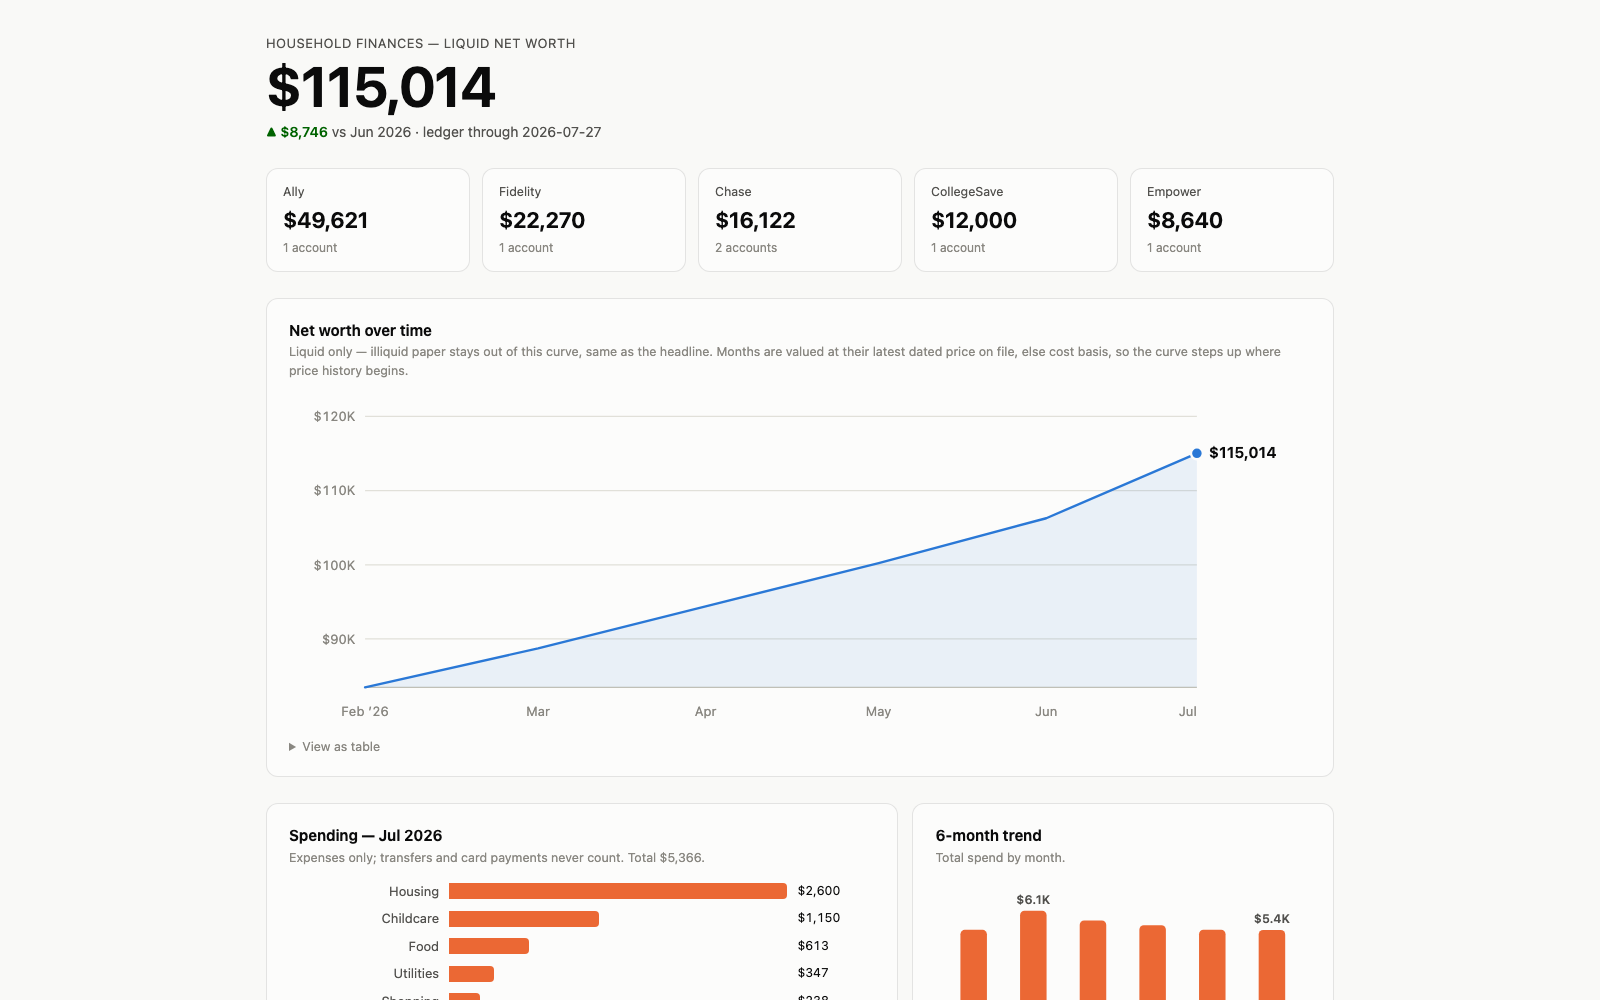
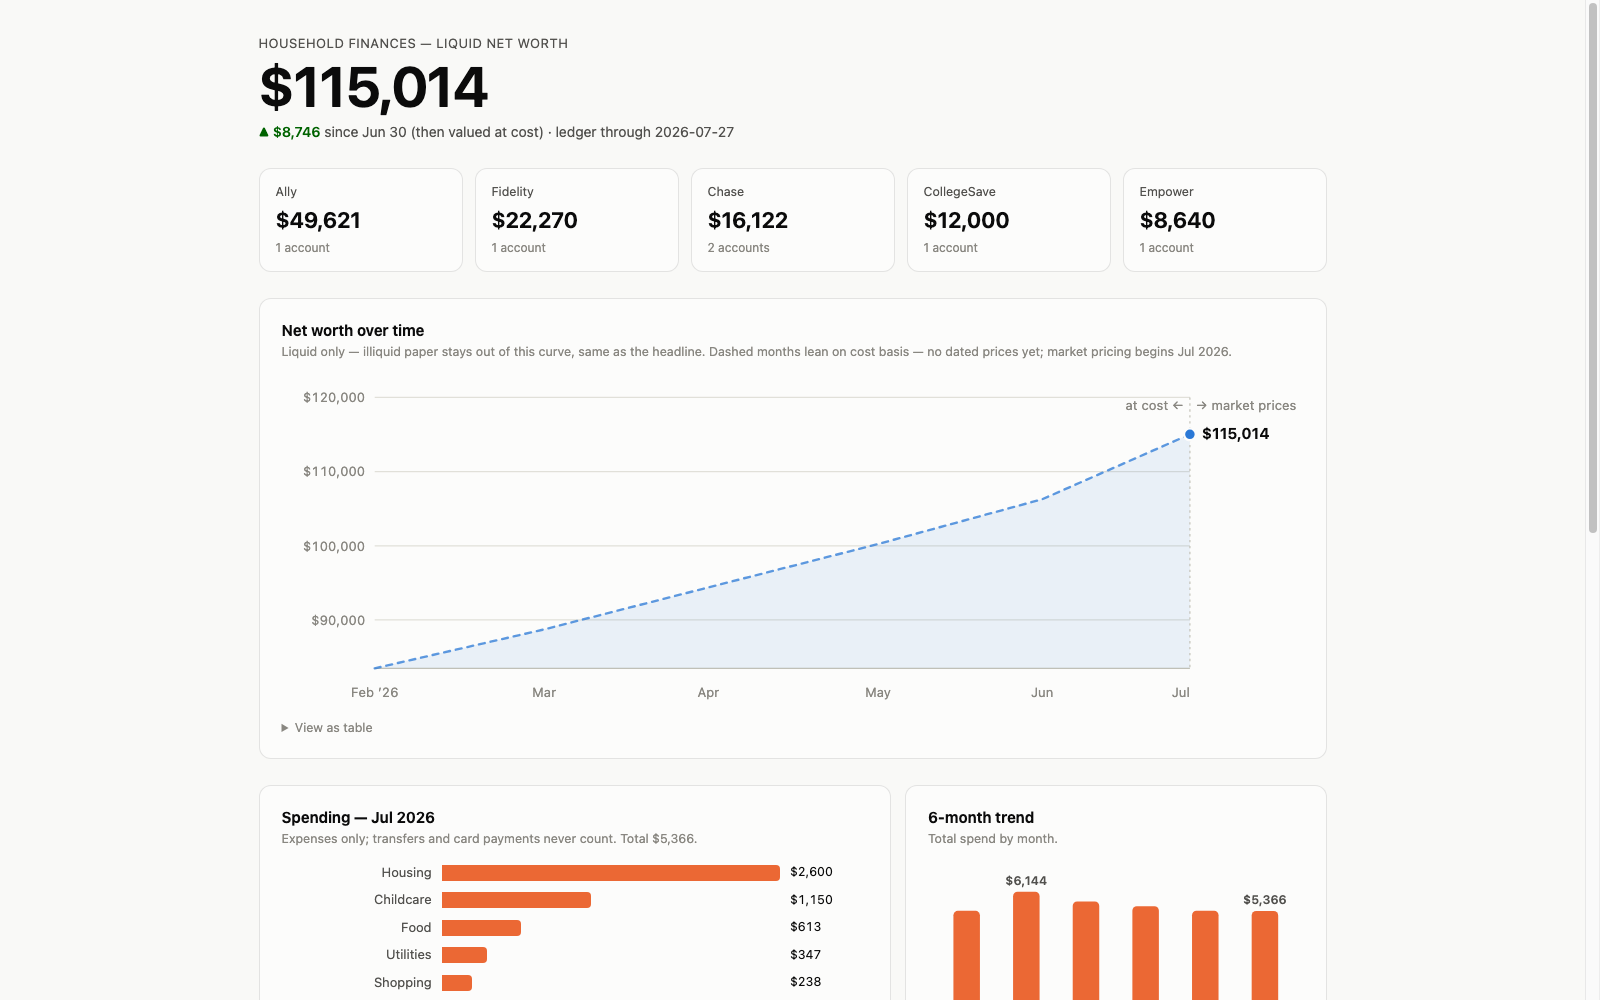
Dashboard figures verified to ground truth; honest curve; human formatting
The net-worth curve drops months before opening-balance completeness and
dashes at-cost history behind a labeled seam; every spend figure carries
its window ("month to date"); all code-rendered dollars use full comma
formatting; demo init orders checks before reports so findings render;
fava opens with a one-year default window so all-time sums stop reading
as period figures. Every displayed figure on demo and real pages matched
against the query engine exactly.

diff --git a/skills/finance/tools/webview.py b/skills/finance/tools/webview.py
@@ -13,7 +13,11 @@ Data surfaces reused, never re-derived: reports.liquid_balances/paper_value
 reports/findings.md (checks). History curve: month-end valuation at the
 latest dated price on or before each month end, else cost basis — the
 endpoint is the headline number itself (latest prices), so hero and curve
-always agree.
+always agree. Honesty rules for the curve: months that predate the ledger's
+opening balances are dropped (they'd misstate the household — accounts with
+no baseline yet read as missing money, not history), and months whose value
+leans on cost basis for lack of a dated price are drawn dashed and labelled
+"at cost". A partial current month is labelled with its through-date.
 
 Security: ledger payees, findings text, and account names are bank-
 controlled DATA. Every string is HTML-escaped before it touches markup;
@@ -52,20 +56,6 @@ def jattr(obj):
     """JSON for a data-* attribute — html.escape makes it inert in markup;
     the browser's attribute parser hands JSON.parse the exact original."""
     return esc(json.dumps(obj, separators=(",", ":")))
-
-
-def compact(v):
-    """$1.2M / $115K / $950 — axis-tick money."""
-    a = abs(v)
-    if a >= 1e6:
-        s = f"${a / 1e6:.1f}M".replace(".0M", "M")
-    elif a >= 1e4:
-        s = f"${a / 1e3:.0f}K"
-    elif a >= 1e3:
-        s = f"${a / 1e3:.1f}K".replace(".0K", "K")
-    else:
-        s = f"${a:,.0f}"
-    return "-" + s if v < 0 else s
 
 
 def month_label(y, m):
@@ -127,11 +117,42 @@ def _units(cell, currency):
     return total
 
 
+COST_SHARE_EST = 0.10      # >10% of a month's value on cost fallback = "at cost"
+BASELINE_SHARE = 0.95      # curve starts once 95% of opening-balance dollars exist
+
+
+def baseline_complete_date():
+    """The date by which ≥95% (dollar-weighted) of opening-balance value had
+    been booked, or None if the ledger has no Equity:Opening postings. Before
+    this date at least one account is missing its baseline, so a month-end
+    total there is missing money — not history."""
+    rows = query("SELECT date, sum(convert(position, 'USD')) AS v "
+                 "WHERE account ~ '^Equity:Opening' GROUP BY date ORDER BY date")
+    dated = []
+    for r in rows:
+        try:
+            dated.append((date.fromisoformat(r["date"]), abs(amount(r["v"]))))
+        except (KeyError, TypeError, ValueError):
+            continue
+    total = sum(v for _, v in dated)
+    if not total:
+        return None
+    run = 0.0
+    for d, v in dated:
+        run += v
+        if run >= BASELINE_SHARE * total:
+            return d
+    return dated[-1][0]
+
+
 def networth_series(liquid_now, asof):
-    """[(date, value)…] month-end liquid net worth. One ledger query: monthly
+    """[{d, v, est}…] month-end liquid net worth. One ledger query: monthly
     deltas per currency in units + cost; valued at the latest dated price on
-    or before each month end, else cost basis. The final point IS liquid_now
-    (the headline, at latest prices) so hero and curve can never disagree."""
+    or before each month end, else cost basis. est=True marks a month leaning
+    on cost fallback for >10% of its value (drawn dashed, labelled at cost).
+    Months before the opening-balance baseline are dropped. The final point
+    IS liquid_now (the headline, at latest prices) so hero and curve can
+    never disagree."""
     excl = illiquid_currency_regex()
     where = ("account ~ '^(Assets|Liabilities)'"
              + (f" AND NOT currency ~ '{excl.replace(chr(39), chr(39) * 2)}'" if excl else ""))
@@ -151,28 +172,39 @@ def networth_series(liquid_now, asof):
         per_month[ym][cur] = [u + d_units, c + d_cost]
     months = sorted(per_month)
     if not months:
-        return []
+        return [], 0
     prices = price_history()
     cum = {}  # currency -> [units, cost]
     points = []
-    for i, (y, m) in enumerate(months):
+    for y, m in months:
         for cur, (du, dc) in per_month[(y, m)].items():
             u, c = cum.setdefault(cur, [0.0, 0.0])
             cum[cur] = [u + du, c + dc]
         d = date(y, m, monthrange(y, m)[1])
-        total = 0.0
+        total, at_cost = 0.0, 0.0
         for cur, (u, c) in cum.items():
             if cur == "USD":
                 total += u
             elif abs(u) > 1e-9:
                 px = [p for pd, p in prices.get(cur, []) if pd <= d]
                 total += u * px[-1] if px else c
-        points.append((d, round(total, 2)))
+                if not px:
+                    at_cost += abs(c)
+        points.append({"d": d, "v": round(total, 2),
+                       "est": at_cost > COST_SHARE_EST * max(abs(total), 1.0)})
     # the last month is partial (data reaches asof, not month end): date it
-    # honestly and pin it to the headline valuation
-    end_date = asof or points[-1][0]
-    points[-1] = (min(points[-1][0], end_date) if asof else points[-1][0], liquid_now)
-    return points[-MAX_CURVE_POINTS:]
+    # honestly and pin it to the headline valuation — the headline is the
+    # latest-prices number by definition, never a cost estimate
+    if asof:
+        points[-1]["d"] = min(points[-1]["d"], asof)
+    points[-1]["v"] = liquid_now
+    points[-1]["est"] = False
+    baseline = baseline_complete_date()
+    cut = 0
+    if baseline:
+        kept = [p for p in points if p["d"] >= baseline]
+        cut, points = len(points) - len(kept), kept
+    return points[-MAX_CURVE_POINTS:], cut
 
 
 def spend_data():
@@ -265,16 +297,18 @@ def code_spans(escaped):
     return re.sub(r"`([^`]{1,80})`", r"<code>\1</code>", escaped)
 
 
-def svg_line_chart(points):
+def svg_line_chart(points, asof=None):
     """Net-worth curve: 2px line, 10% area wash, end dot + ring, direct end
-    label, hairline grid, crosshair+tooltip layer driven by data-points."""
+    label, hairline grid, crosshair+tooltip layer driven by data-points.
+    Months flagged est (mostly cost basis, no dated price yet) draw dashed
+    with an annotated seam where market pricing begins."""
     if len(points) < 2:
         return ("<div class='empty'>Not enough ledger history to draw a curve yet "
                 "&mdash; import more statements and regenerate.</div>")
     W, H = 860, 280
-    ML, MR, MT, MB = 64, 96, 18, 34
-    xs = [d.toordinal() for d, _ in points]
-    vs = [v for _, v in points]
+    ML, MR, MT, MB = 78, 96, 18, 34
+    xs = [p["d"].toordinal() for p in points]
+    vs = [p["v"] for p in points]
     ticks = nice_ticks(min(vs), max(vs))
     lo, hi = min(ticks[0], min(vs)), max(ticks[-1], max(vs))
     span_x = (xs[-1] - xs[0]) or 1
@@ -290,24 +324,53 @@ def svg_line_chart(points):
     for t in ticks:
         y = Y(t)
         grid.append(f"<line x1='{ML}' y1='{y:.1f}' x2='{W - MR}' y2='{y:.1f}' class='grid'/>")
-        ylab.append(f"<text x='{ML - 8}' y='{y + 4:.1f}' class='tick' text-anchor='end'>{esc(compact(t))}</text>")
+        ylab.append(f"<text x='{ML - 8}' y='{y + 4:.1f}' class='tick' text-anchor='end'>{esc(money(t))}</text>")
     step = max(1, round(len(points) / 6))
     xlab = []
-    for i, (d, _) in enumerate(points):
+    for i, p in enumerate(points):
         if i % step == 0 or i == len(points) - 1:
             anchor = "end" if i == len(points) - 1 else "middle"
+            d = p["d"]
             lbl = MONTH_ABBR[d.month] + (f" ’{str(d.year)[2:]}"
                                          if d.month == 1 or i == 0 else "")
             xlab.append(f"<text x='{X(xs[i]):.1f}' y='{H - 10}' class='tick' "
                         f"text-anchor='{anchor}'>{esc(lbl)}</text>")
     pts = [(X(o), Y(v)) for o, v in zip(xs, vs)]
-    path = "M" + " L".join(f"{x:.1f} {y:.1f}" for x, y in pts)
-    area = path + f" L{pts[-1][0]:.1f} {H - MB} L{pts[0][0]:.1f} {H - MB} Z"
+    # dashed where a segment touches an at-cost month, solid where priced;
+    # contiguous runs keep the path count tiny
+    segs = []
+    for i in range(1, len(pts)):
+        est = points[i - 1]["est"] or points[i]["est"]
+        if segs and segs[-1][0] == est:
+            segs[-1][1].append(pts[i])
+        else:
+            segs.append([est, [pts[i - 1], pts[i]]])
+    paths = "".join(
+        f"<path d=\"M{' L'.join(f'{x:.1f} {y:.1f}' for x, y in seg)}\" "
+        f"class='line1{' est' if est else ''}'/>"
+        for est, seg in segs)
+    area = ("M" + " L".join(f"{x:.1f} {y:.1f}" for x, y in pts)
+            + f" L{pts[-1][0]:.1f} {H - MB} L{pts[0][0]:.1f} {H - MB} Z")
+    # seam: first priced month after the at-cost era gets a labelled rule
+    seam = ""
+    seam_i = next((i for i in range(1, len(points))
+                   if points[i - 1]["est"] and not points[i]["est"]), None)
+    if seam_i is not None:
+        sx = pts[seam_i][0]
+        seam = (f"<line x1='{sx:.1f}' y1='{MT}' x2='{sx:.1f}' y2='{H - MB}' class='seam'/>"
+                f"<text x='{sx - 5:.1f}' y='{MT + 11}' class='tick' text-anchor='end'>"
+                f"at cost ←</text>"
+                f"<text x='{sx + 5:.1f}' y='{MT + 11}' class='tick'>"
+                f"→ market prices</text>")
     ex, ey = pts[-1]
-    payload = [{"x": round(x, 1), "y": round(y, 1),
-                "l": month_label(d.year, d.month) + ("" if i < len(points) - 1 else " (as of)"),
-                "v": money(v)}
-               for i, ((x, y), (d, v)) in enumerate(zip(pts, points))]
+    payload = []
+    for i, ((x, y), p) in enumerate(zip(pts, points)):
+        lbl = month_label(p["d"].year, p["d"].month)
+        if i == len(points) - 1 and asof:
+            lbl += f" · through {MONTH_ABBR[asof.month]} {asof.day}"
+        elif p["est"]:
+            lbl += " · at cost"
+        payload.append({"x": round(x, 1), "y": round(y, 1), "l": lbl, "v": money(p["v"])})
     return f"""<figure class="chart">
 <svg viewBox="0 0 {W} {H}" role="img" aria-label="Liquid net worth by month"
      class="nw" data-points="{jattr(payload)}" tabindex="0">
@@ -315,7 +378,7 @@ def svg_line_chart(points):
   <line x1="{ML}" y1="{H - MB}" x2="{W - MR}" y2="{H - MB}" class="axis"/>
   {''.join(ylab)}{''.join(xlab)}
   <path d="{area}" class="wash"/>
-  <path d="{path}" class="line1"/>
+  {paths}{seam}
   <line class="xhair" x1="0" y1="{MT}" x2="0" y2="{H - MB}" visibility="hidden"/>
   <circle class="hoverdot" r="5" visibility="hidden"/>
   <circle cx="{ex:.1f}" cy="{ey:.1f}" r="5" class="dot1"/>
@@ -353,7 +416,9 @@ def spend_bars(cats, month_lbl):
     return "<div class='bars'>" + "".join(rows) + "</div>"
 
 
-def trend_columns(trend):
+def trend_columns(trend, mtd=False):
+    """Monthly totals as columns; a partial current month renders half-tone
+    and says month-to-date wherever its number appears."""
     if len(trend) < 2:
         return "<div class='empty'>Not enough months yet for a trend.</div>"
     W, H, MB, MT = 340, 190, 26, 26
@@ -365,20 +430,22 @@ def trend_columns(trend):
     peak = vs.index(max(vs))
     cols, labs = [], []
     for i, ((y, m), v) in enumerate(trend):
+        part = mtd and i == n - 1
         x = 8 + slot * i + (slot - bw) / 2
         h = max(2.0, (H - MB - MT) * v / mx)
         ytop = H - MB - h
-        tip = f"{money(v)} {month_label(y, m)} total spend"
+        tip = f"{money(v)} {month_label(y, m)}" + (" month to date" if part else " total spend")
+        cls = "col2 part" if part else "col2"
         cols.append(
             f"<g tabindex='0' data-tip=\"{esc(tip)}\">"
-            f"<rect x='{x:.1f}' y='{ytop:.1f}' width='{bw:.1f}' height='{h:.1f}' rx='4' class='col2'/>"
-            f"<rect x='{x:.1f}' y='{H - MB - min(4.0, h):.1f}' width='{bw:.1f}' height='{min(4.0, h):.1f}' class='col2'/>"
+            f"<rect x='{x:.1f}' y='{ytop:.1f}' width='{bw:.1f}' height='{h:.1f}' rx='4' class='{cls}'/>"
+            f"<rect x='{x:.1f}' y='{H - MB - min(4.0, h):.1f}' width='{bw:.1f}' height='{min(4.0, h):.1f}' class='{cls}'/>"
             + (f"<text x='{x + bw / 2:.1f}' y='{ytop - 6:.1f}' class='caplab' "
-               f"text-anchor='middle'>{esc(compact(v))}</text>"
+               f"text-anchor='middle'>{esc(money(v))}</text>"
                if i in (peak, n - 1) else "")
             + "</g>")
         labs.append(f"<text x='{x + bw / 2:.1f}' y='{H - 8}' class='tick' "
-                    f"text-anchor='middle'>{esc(MONTH_ABBR[m])}</text>")
+                    f"text-anchor='middle'>{esc(MONTH_ABBR[m] + ('*' if part else ''))}</text>")
     return (f"<figure class='chart'><svg viewBox='0 0 {W} {H}' role='img' "
             f"aria-label='Monthly spend, last {n} months'>"
             f"<line x1='8' y1='{H - MB}' x2='{W - 8}' y2='{H - MB}' class='axis'/>"
@@ -488,9 +555,12 @@ section { margin-top:26px; }
 .wash { fill:var(--s1); opacity:.09; stroke:none; }
 .line1 { fill:none; stroke:var(--s1); stroke-width:2; stroke-linecap:round;
   stroke-linejoin:round; }
+.line1.est { stroke-dasharray:5 5; opacity:.75; }
+.seam { stroke:var(--axis); stroke-width:1; stroke-dasharray:2 3; }
 .dot1 { fill:var(--s1); stroke:var(--surface); stroke-width:2; }
 .dotwarn { fill:var(--critical); stroke:var(--surface); stroke-width:2; }
 .col2 { fill:var(--s2); }
+.col2.part { opacity:.45; }
 g[data-tip]:hover .col2, g[data-tip]:focus .col2 { filter:brightness(1.12); }
 g[data-tip]:focus { outline:none; }
 .xhair { stroke:var(--axis); stroke-width:1; }
@@ -672,7 +742,7 @@ def build_page():
     liquid = sum(v for _, v in balances)
     paper = paper_value()
     asof = latest_ledger_date()
-    series = networth_series(liquid, asof)
+    series, baseline_cut = networth_series(liquid, asof)
     cats, trend, latest_m, mtd = spend_data()
     fc = build_forecast(days=FORECAST_DAYS)
     findings, counts_line, check_errors = parse_findings()
@@ -682,12 +752,15 @@ def build_page():
     # ---- masthead
     delta_html = ""
     if len(series) >= 2:
-        prev_d, prev_v = series[-2]
-        d = liquid - prev_v
+        prev = series[-2]
+        d = liquid - prev["v"]
         if abs(d) >= 1:
             cls, arrow = ("up", "▲") if d > 0 else ("down", "▼")
+            since = f"since {MONTH_ABBR[prev['d'].month]} {prev['d'].day}"
+            if prev["est"]:
+                since += " (then valued at cost)"
             delta_html = (f" <span class='delta {cls}'>{arrow} {esc(money(abs(d)))}</span>"
-                          f" <span>vs {esc(month_label(prev_d.year, prev_d.month))}</span> ·")
+                          f" <span>{esc(since)}</span> ·")
     asof_txt = f"ledger through {asof.isoformat()}" if asof else "no ledger history yet"
     paper_html = ""
     if paper:
@@ -729,17 +802,32 @@ def build_page():
                       f"<div class='tiles'>{''.join(tiles)}</div></section>")
 
     # ---- net worth curve
+    def basis_lbl(i, p):
+        if i == len(series) - 1 and asof:
+            return f"market · through {asof.isoformat()}"
+        return "at cost" if p["est"] else "market"
     nw_table = table_view(
-        "Liquid net worth by month — market value where a dated price exists, "
-        "else cost basis; the endpoint uses latest prices (the headline).",
-        ["Month", "Liquid net worth"],
-        [(esc(month_label(d.year, d.month)), esc(money(v))) for d, v in series])
+        "Liquid net worth at each month end. 'At cost' rows lean on cost basis "
+        "for lack of a dated price; the endpoint uses latest prices (the headline).",
+        ["Month", "Liquid net worth", "Basis"],
+        [(esc(month_label(p["d"].year, p["d"].month)), esc(money(p["v"])),
+          esc(basis_lbl(i, p))) for i, p in enumerate(series)])
+    curve_notes = ["Liquid only — illiquid paper stays out of this curve, same as the headline."]
+    if baseline_cut and series:
+        s0 = series[0]["d"]
+        curve_notes.append(
+            f"Starts {month_label(s0.year, s0.month)}, when the ledger's opening "
+            f"balances were complete — earlier months would misstate the household.")
+    if any(p["est"] for p in series):
+        first_mkt = next((p for p in series if not p["est"]), None)
+        curve_notes.append(
+            "Dashed months lean on cost basis — no dated prices yet"
+            + (f"; market pricing begins {month_label(first_mkt['d'].year, first_mkt['d'].month)}"
+               if first_mkt else "") + ".")
     curve_card = f"""<section class="card">
   <h2>Net worth over time</h2>
-  <p class="sub">Liquid only — illiquid paper stays out of this curve, same as the headline.
-  Months are valued at their latest dated price on file, else cost basis, so the curve
-  steps up where price history begins.</p>
-  {svg_line_chart(series)}{nw_table if series else ''}
+  <p class="sub">{' '.join(esc(n) for n in curve_notes)}</p>
+  {svg_line_chart(series, asof)}{nw_table if series else ''}
 </section>"""
 
     # ---- spend
@@ -755,18 +843,22 @@ def build_page():
     trend_table = table_view(
         "Total spend by month.",
         ["Month", "Total spend"],
-        [(esc(month_label(y, m)), esc(money(v))) for (y, m), v in trend])
+        [(esc(month_label(y, m) + (" (month to date)" if mtd and (y, m) == latest_m else "")),
+          esc(money(v))) for (y, m), v in trend])
+    trend_sub = "Total spend by month."
+    if mtd and latest_m:
+        trend_sub += f" {MONTH_ABBR[latest_m[1]]}* is month to date."
     spend_cards = f"""<section class="cols">
   <div class="card">
     <h2>Spending — {esc(month_lbl)}</h2>
     <p class="sub">Expenses only; transfers and card payments never count. Total {esc(money(spend_total))}.</p>
-    {spend_bars(cats, month_label(*latest_m) if latest_m else "")}
+    {spend_bars(cats, month_lbl)}
     {spend_table if cats else ''}
   </div>
   <div class="card">
     <h2>{TREND_MONTHS}-month trend</h2>
-    <p class="sub">Total spend by month.</p>
-    {trend_columns(trend)}
+    <p class="sub">{esc(trend_sub)}</p>
+    {trend_columns(trend, mtd)}
     {trend_table if len(trend) >= 2 else ''}
   </div>
 </section>"""
